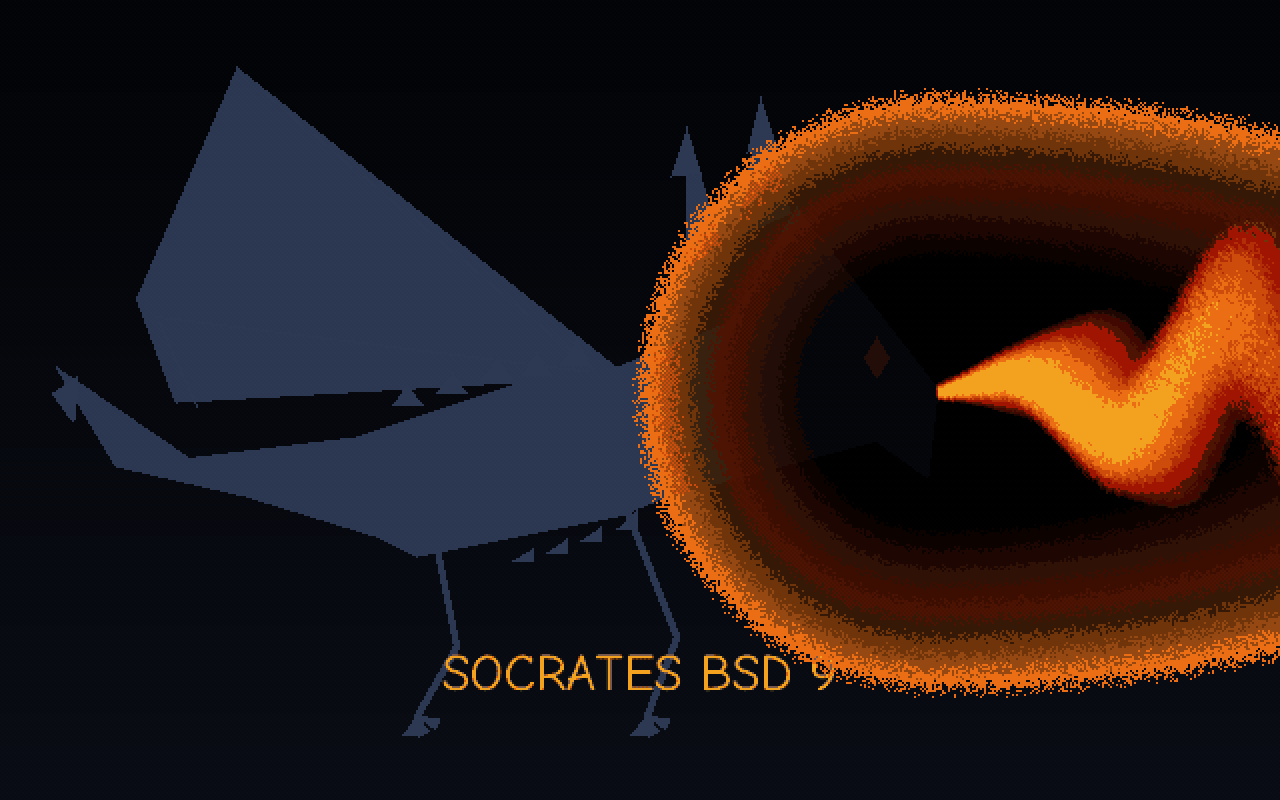
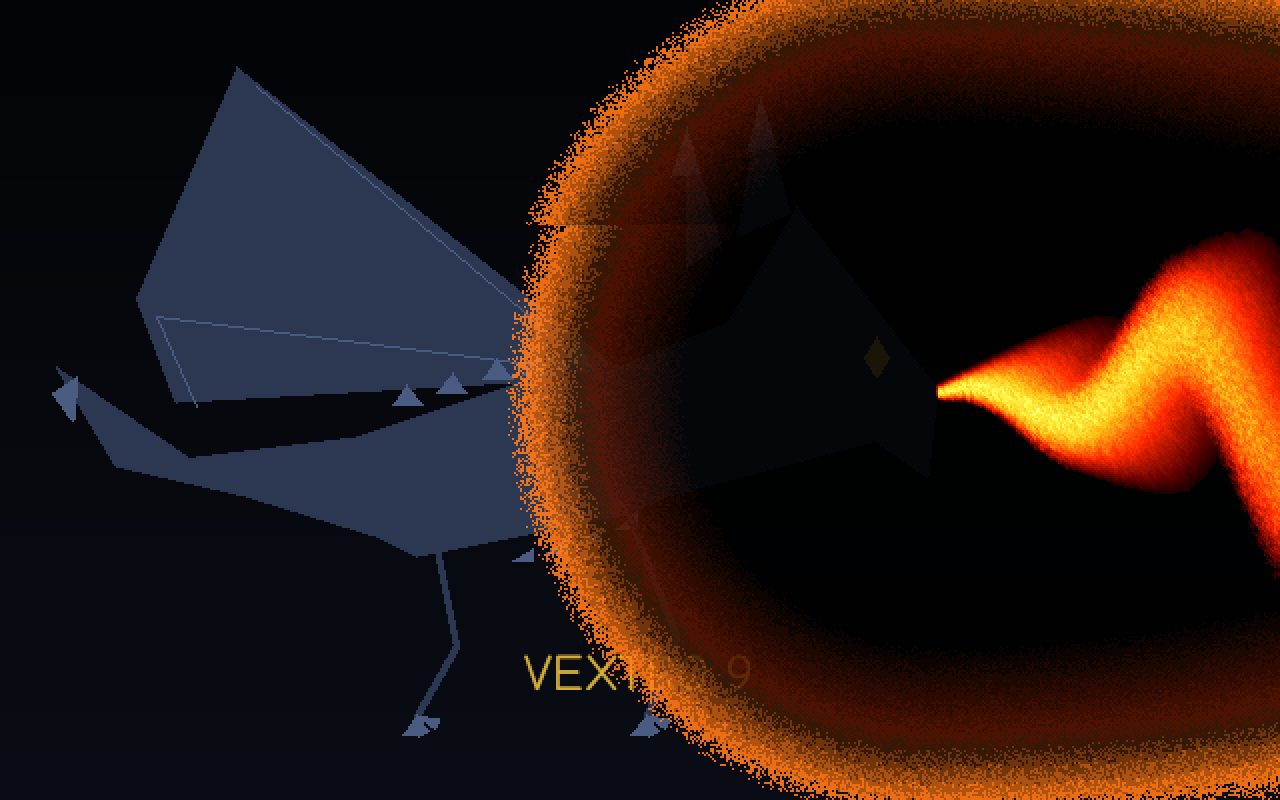
docs: describe Vextro from what it does, and say what it does not
The README's feature list is written from the shipped code rather than
from an ambition, and it now carries the other list too -- what is not
here, with the reason in each case: no 3D API above the 2D blitter, no
video or audio codecs, no hypervisor, no TLS, no disk encryption, no
application sandboxing.

That last one matters most. Accounts buy identity and separate
workspaces; .bsd applications still run with full kernel privileges in a
shared address space, so the account system is not a security boundary
and the README says so rather than letting the word "login" imply it.

Two claims had gone stale and are corrected: articles render in the
Wikipedia window now rather than being handed to the browser, and the
login screen takes a user and a hashed password rather than one shared
keycode.

Screenshots recaptured off the machine under the new brand, including
the boot animation mid-burn, and four new ones for the desktop work:
Peek with a taskbar preview, a snapped window, start-menu search, and
the calculator.

Line count refreshed: 32,146 lines of C, 35,092 with the embedded
typeface and sine table.

diff --git a/README.md b/README.md
@@ -10,7 +10,7 @@
   <img alt="x86_64" src="https://img.shields.io/badge/arch-x86__64-1f2430?style=flat-square">
   <img alt="bare metal" src="https://img.shields.io/badge/target-bare%20metal-d4af37?style=flat-square">
   <img alt="no libc" src="https://img.shields.io/badge/libc-none-1f2430?style=flat-square">
-  <img alt="lines" src="https://img.shields.io/badge/kernel-29k%20lines%20of%20C-1f2430?style=flat-square">
+  <img alt="lines" src="https://img.shields.io/badge/kernel-32k%20lines%20of%20C-1f2430?style=flat-square">
   <a href="../../releases"><img alt="releases" src="https://img.shields.io/badge/download-ISO-d4af37?style=flat-square"></a>
   <img alt="license" src="https://img.shields.io/badge/license-Apache--2.0-1f2430?style=flat-square">
   <a href="https://github.com/mrcalmtuber/vextro-arm64"><img alt="arm64 port" src="https://img.shields.io/badge/also%20on-aarch64-d4af37?style=flat-square"></a>
@@ -174,9 +174,10 @@ no secrets on a machine with no users.</td>
 <td><b>Offline Wikipedia</b> — live prefix search across
 <b>399,853 entries</b>, answered by binary search over the archive's sorted
 path list. About twenty reads, and it barely slows as the archive grows.</td>
-<td><b>Articles</b> render through the browser at <code>zim://</code>, with
-internal links resolved back into the archive — so you can read from one
-article to the next, with Back working.</td>
+<td><b>Articles</b> render in the Wikipedia window itself, through a
+layout engine with a run-based line model — so a sentence full of links
+stays one sentence. Internal links resolve back into the archive, and Back
+restores your reading position.</td>
 </tr>
 <tr>
 <td><img src="docs/store.png" alt="Agora app store"></td>
@@ -198,10 +199,88 @@ no FPU at all.</td>
 <td><b>Photos</b> — a custom image format: PNG-style row prediction filters
 over an LZMA stream. The status bar is not marketing, it is the file:
 <b>623 KB → 12 KB</b>.</td>
-<td><b>Login</b> — the keycode is stored on the volume, so the machine
-remembers you. A wrong one melts the screen.</td>
+<td><b>Login</b> — real accounts. Salted SHA-256 iterated 4,096 times,
+compared in constant time, with per-user home directories. A wrong
+password melts the screen.</td>
 </tr>
 </table>
+
+---
+
+## The desktop
+
+<table>
+<tr>
+<td width="50%"><img src="docs/aero.png" alt="Peek and a taskbar preview"></td>
+<td width="50%"><img src="docs/snap.png" alt="A window snapped to half the screen"></td>
+</tr>
+<tr>
+<td><b>Peek and previews</b> — hovering the taskbar fades every window
+towards what is behind it and leaves its outline. The preview above the
+button is the window itself, captured out of the compositor.</td>
+<td><b>Snap</b> — drag a window to an edge and it takes half the work
+area; drag it to the top and it fills it. The target is previewed while
+the button is held, so the gesture can be abandoned.</td>
+</tr>
+<tr>
+<td><img src="docs/search.png" alt="Start menu search"></td>
+<td><img src="docs/calculator.png" alt="Calculator"></td>
+</tr>
+<tr>
+<td><b>Search</b> — type in the start menu and it looks through the
+applications, the things each app was recently pointed at, and the volume
+itself, breadth-first under a budget so it cannot cost a frame.</td>
+<td><b>Calculator</b> — three modes, and not one floating-point
+instruction. Values are 64-bit integers scaled by a million, so 12.5 × 8
+is exactly 100 and 1000 mm is exactly 1 m.</td>
+</tr>
+</table>
+
+**Windows.** Minimize, maximize and snap share one saved rectangle rather
+than three that could disagree. Shake a window — four direction changes
+inside half a second, counting only strokes long enough not to be a hand
+holding still — and everything else gets out of the way; shake it again
+and the desk comes back.
+
+**Taskbar.** Pinned launchers that become window buttons once something is
+running: click the focused one to put it away, click again to bring it
+back. Right-click opens a jump list of what that app was last pointed at.
+
+**Gadgets.** A clock, a system meter and a network panel, drawn on the
+desktop under the window stack. The CPU meter is fed by the render loop's
+own cycle counters — a meter driven by a counter that ticks whether or not
+anything is happening would be decoration, not instrumentation.
+
+**Action Center.** A flag on the menubar with an unread count, and a panel
+listing the last sixteen things the system did: signing in, an app being
+installed, the language model being enabled, the network link changing.
+Nothing in it steals focus or blocks.
+
+**Power.** The render loop parks the core between frames rather than
+spinning through them. After ninety seconds without a pointer move, click
+or keystroke the screen fades down, and comes back four times as fast as
+it went — once the fade settles every frame equals the last, so the flip's
+row diff finds nothing to send to the panel.
+
+---
+
+## What is not here
+
+Vextro is one person's operating system, and the honest list of what it
+cannot do is longer than the list of what it can. These are the things
+most often assumed to be present:
+
+| | Why not |
+|---|---|
+| **3D graphics API** | The Gen9 driver in `src/igpu.h` is a 2D blitter and nothing more. There is no shader compiler, no command-buffer scheduler and no 3D pipeline. |
+| **H.264, AAC, DivX** | No video or audio decoder of any kind ships here. `src/ac97.h` brings up the codec; there is no proven playback path above it, so there is no media player either. |
+| **A virtualised legacy environment** | There is no hypervisor. The kernel runs on the metal and has no facility for running another operating system inside itself. |
+| **Enterprise networking** | `src/netstack.h` is ARP, IPv4, ICMP, UDP, DHCP, DNS and one TCP connection at a time. No VPN, no branch caching, no directory services. |
+| **TLS** | No cryptographic transport, so `https://` is refused rather than faked. |
+| **Full-disk or removable-media encryption** | Passwords are hashed; nothing on the volume is encrypted. |
+| **Application sandboxing** | `.bsd` applications run with full kernel privileges in a shared address space. The account system buys identity and separate workspaces — it is **not** a security boundary, and the About panel says so. |
+| **Anti-malware, device management, biometrics, multi-touch** | Not implemented. |
+| **TV recording, media streaming to network devices** | No tuner driver, and no streaming protocol. |
 
 ---
 
@@ -409,13 +488,14 @@ Point it elsewhere with `store repo <url>`.
 
 ## What is actually in here
 
-**29,106 lines of C**, no libc, compiled as a single translation unit plus
-one for inference. (32,052 counting the embedded typeface and the integer
+**32,146 lines of C**, no libc, compiled as a single translation unit plus
+one for inference. (35,092 counting the embedded typeface and the integer
 sine table, which are data rather than logic.)
 
 | | |
 |---|---|
-| **Desktop** | Window manager (z-order, drag, focus, shadows), menu bar, dock, five wallpaper themes, absolute pointer, scroll wheel routed to the focused window |
+| **Desktop** | Window manager with minimize, maximize, snap-to-edge, shake-to-clear and a peek that fades the stack; taskbar with live window previews and jump lists; desktop gadgets; start-menu search over apps, recent items and the volume; Action Center; five wallpaper themes with an optional slideshow; idle dimming |
+| **Applications** | Terminal with 38 Unix commands, browser, file manager, offline Wikipedia reader, image viewer, paint, system monitor, package store, calculator, settings |
 | **Filesystem** | Read/write exFAT with 64-bit sizes, FAT32 fallback, ustar ramdisk, MBR partitions, range reads out of files too big to buffer |
 | **Storage** | NVMe, AHCI/SATA, ATA PIO — behind one 512-byte sector view |
 | **Network** | IPv4, ICMP, UDP, DNS, TCP, async HTTP/1.0 with redirects; Intel e1000 driver |
@@ -423,7 +503,8 @@ sine table, which are data rather than logic.)
 | **Compression** | Zstandard (RFC 8878), LZMA/LZMA2/xz, both written from the specifications |
 | **Inference** | GGUF parsing, BPE tokeniser, dequantisation, transformer forward pass |
 | **Userland** | `.bsd` container format, `int 0x80` syscall ABI, a package store, five shipped apps |
-| **Boot** | Limine, BIOS *and* UEFI, El Torito ISO; a boot animation decoded from raw RGB565 by the kernel itself |
+| **Accounts** | Multiple users, salted SHA-256 iterated 4,096 times compared in constant time, per-user home directories, administrator rights, logout that clears session state |
+| **Boot** | Limine, BIOS *and* UEFI, El Torito ISO; a boot animation the kernel computes rather than plays back — an advected fire simulation and a separate burn front, in integer arithmetic, before the FPU is even initialised |
 
 <details>
 <summary><b>Source layout</b></summary>
